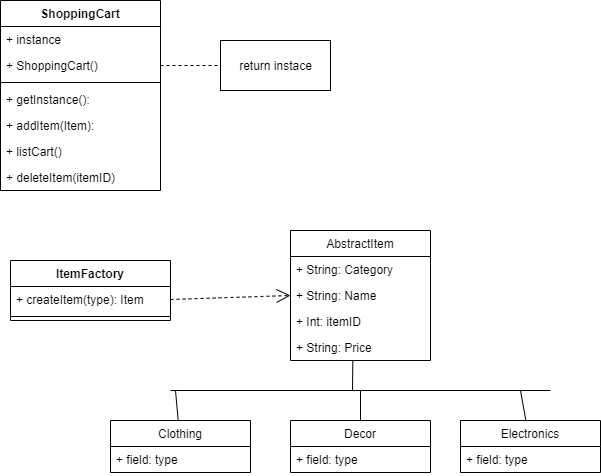
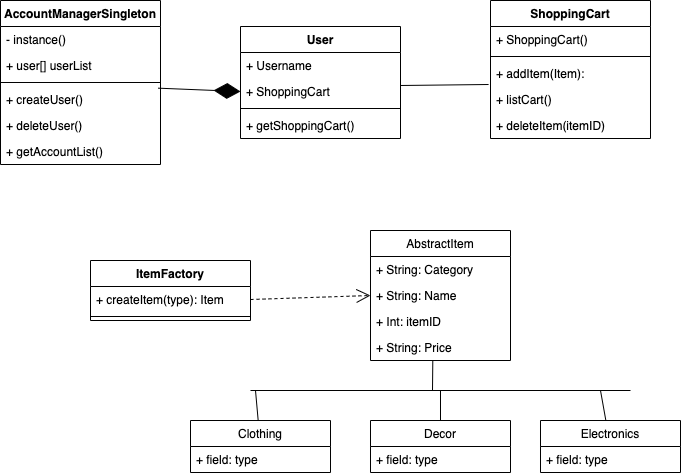
updates to shopping cart

diff --git a/assignments/Claude/Session6/ShoppingCart.java b/assignments/Claude/Session6/ShoppingCart.java
@@ -1,17 +1,47 @@
-class ShoppingCart {
-  public static ShoppingCart* Instance();
-  private ShoppingCart();
-  private static ShoppingCart* _instance;
-};
+public class AccountManagerSigleton {
+    private static AccountManagerSigleton instance = null;
+    private static User[] userList;
+    private MySingleton() {
 
-ShoppingCart* Shoppingcart::_instance = NULL;
+    }
+    // performance issues with the synchronized keyword
+    public static synchronized AccountManagerSigleton getInstance() {
+        if (instance == null) {
+            instance = new AccountManagerSigleton();
+        }
+        return instance;
+    }
 
-ShoppingCart* ShoppingCart::getInstance() {
-  if (_instance = NULL) {
-    _instance = new ShoppingCart();
-  }
-  return _instance;
+    public void createUser(String userName) {
+        user = new User(userName);
+        userList.push(user);
+    }
+
+    public void deleteUser(String userName) {
+        userList(userName) = null
+    }
+
+    public User[] getAccountList() {
+      return userList;
+    }
 }
+
+public class User {
+    private String userName;
+    private ShoppingCart shoppingCart;
+  
+    public User(String userName) {
+      this.userName = userName;
+      this.shoppingCart = new ShoppingCart();
+    }
+  
+    public ShoppingCart getShoppingChart()
+    {
+      return this.shoppingCart;
+    }
+
+}
+
 
 class Item(object) {
   private String category;
@@ -65,10 +95,8 @@ class Electronics(Item) extends Item {
   }
 }
 
-public class ShoppingCart {
-  private static final ShoppingCart instance = new ShoppingCart();
+class ShoppingCart {
   private List<Item> myCart = new ArrayList<Item>();
-  private ShoppingCart() {}
 
   public static void addItem(Item){
     for (int counter = 0; counter < myCart.size(); counter++) {
